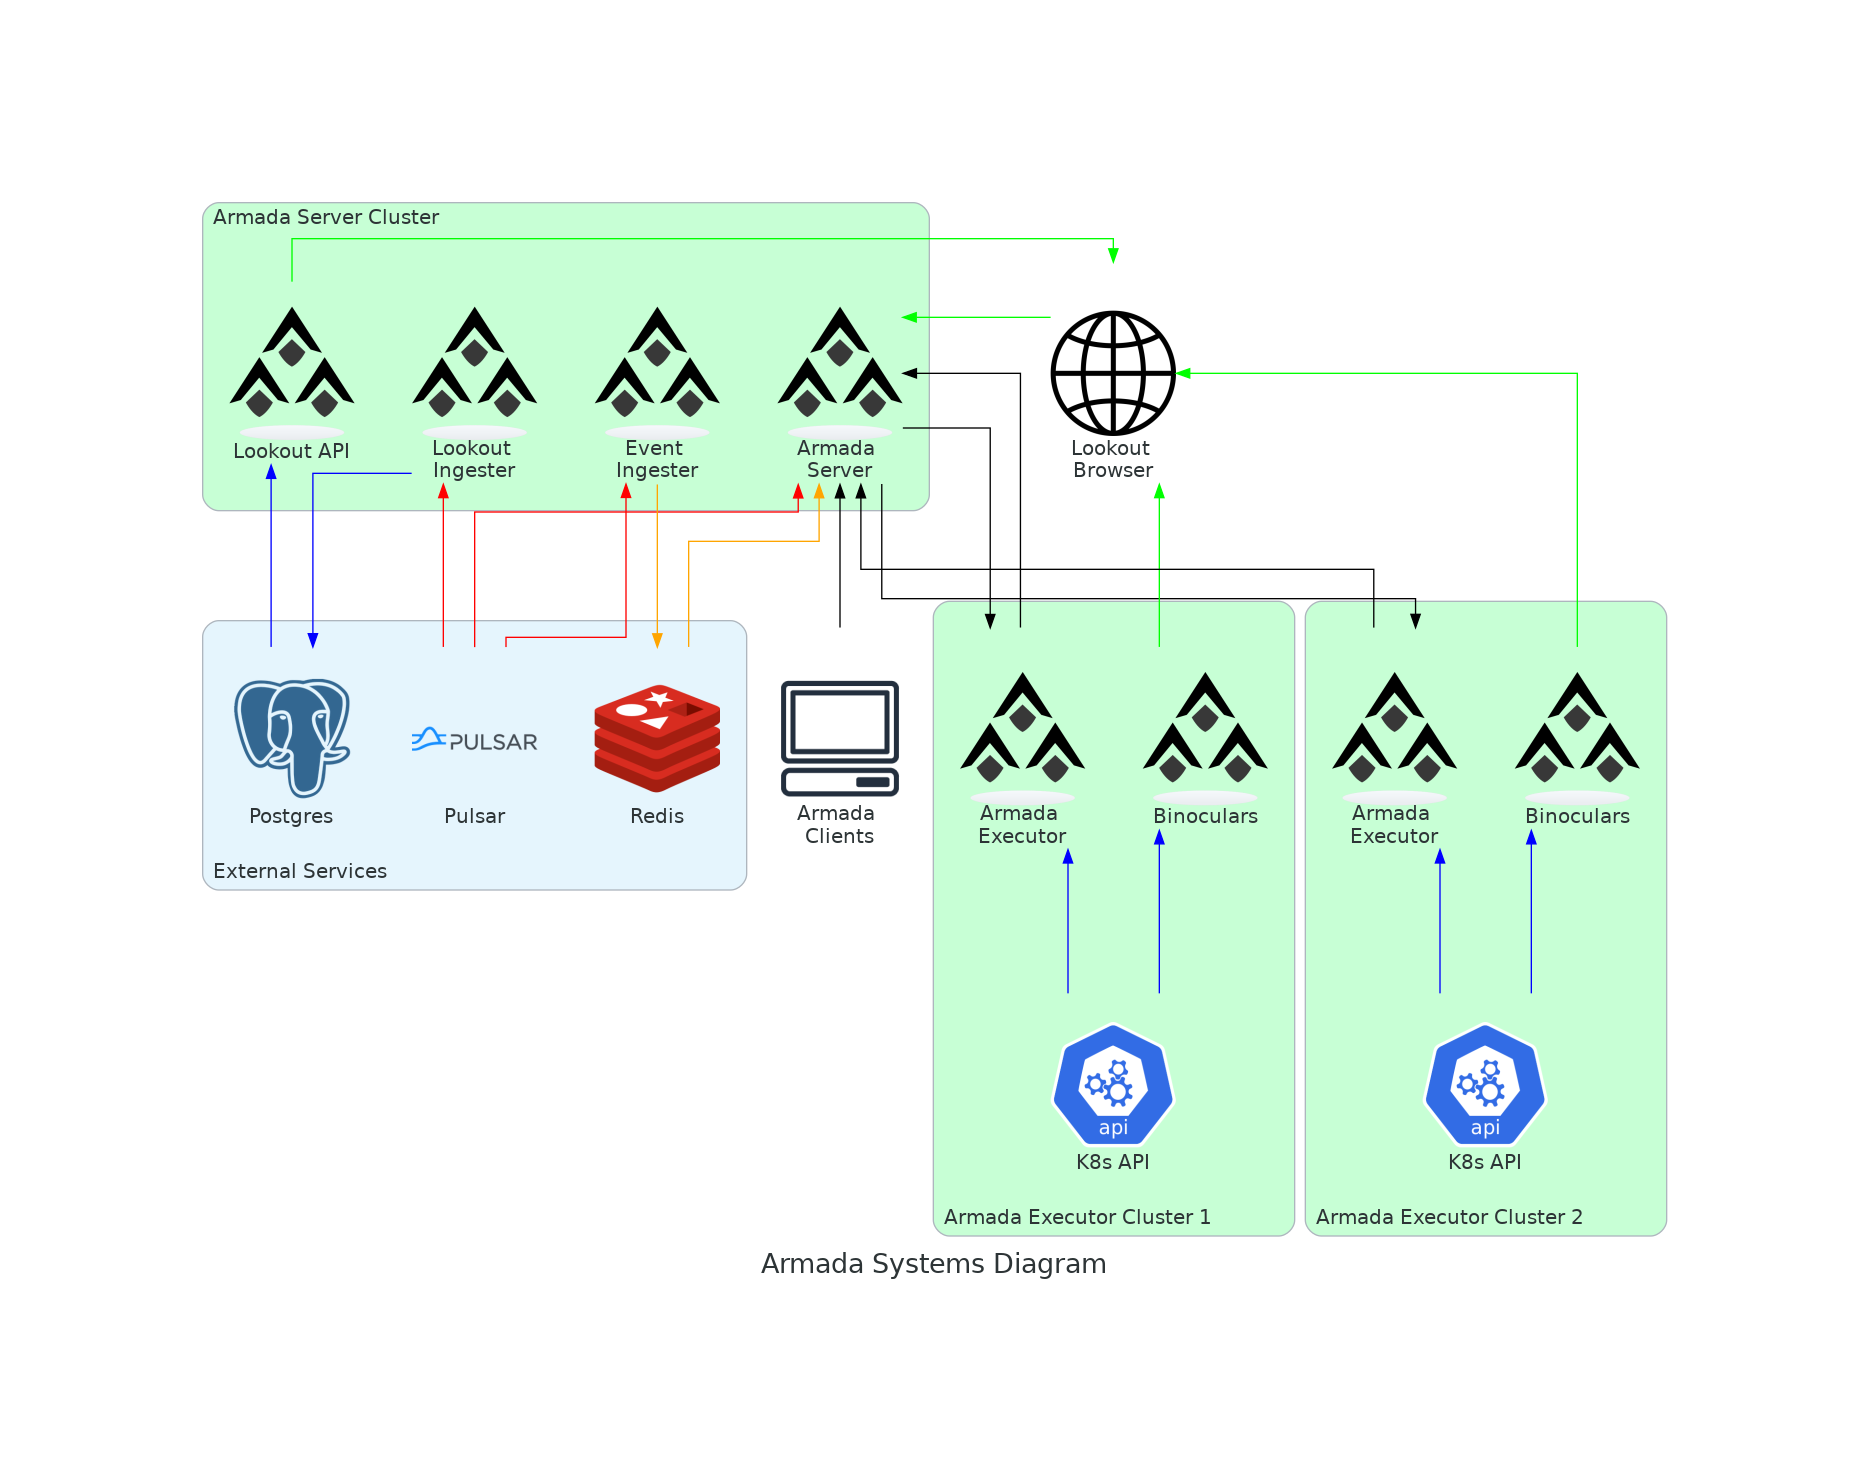
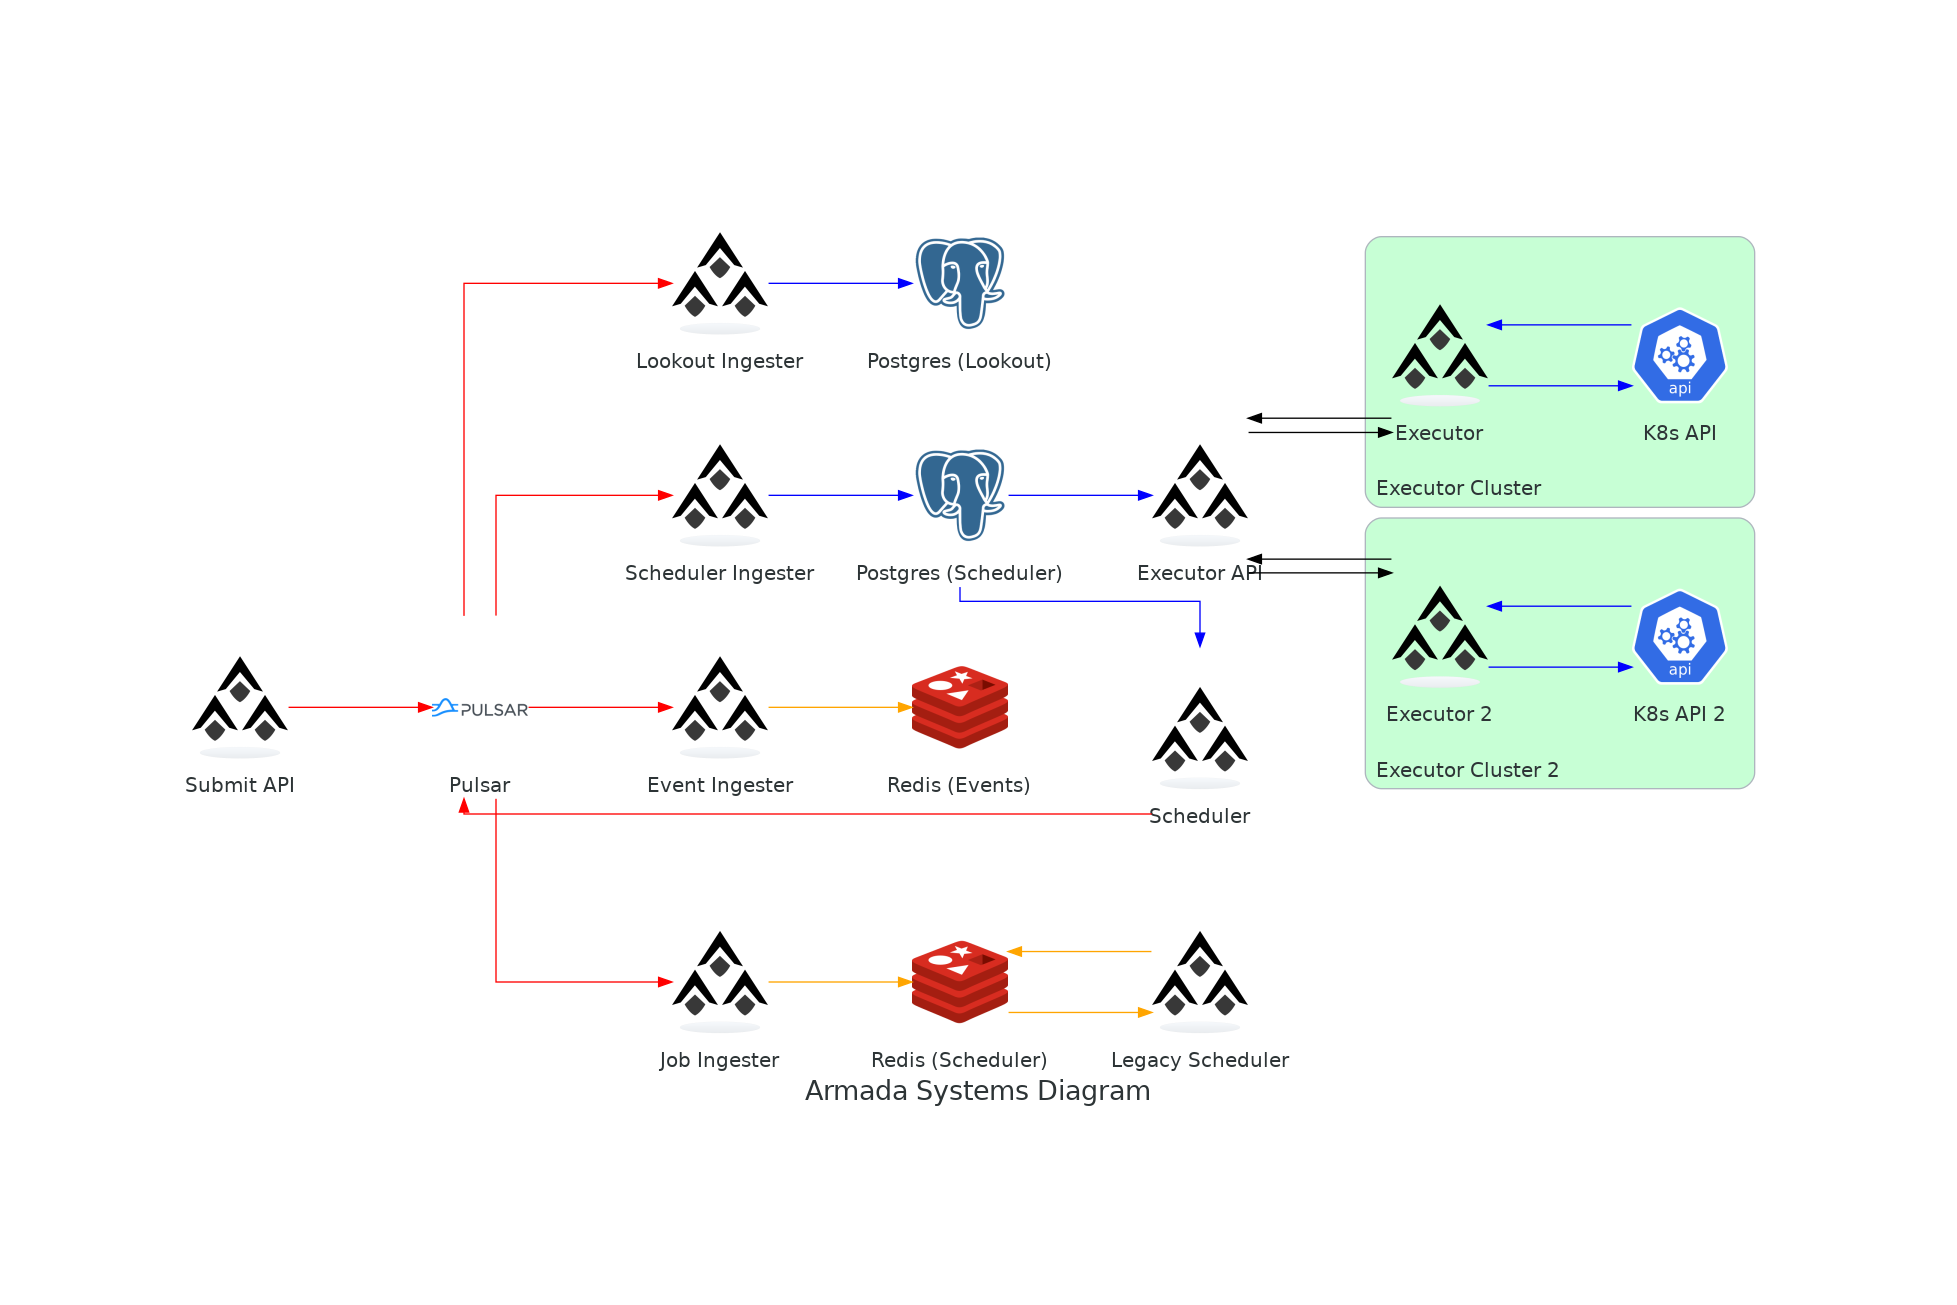
Added diagram changes

diff --git a/docs/design/diagrams/generate.py b/docs/design/diagrams/generate.py
@@ -3,13 +3,12 @@ from diagrams.onprem.database import PostgreSQL
 from diagrams.onprem.inmemory import Redis
 from diagrams.k8s.controlplane import API
 from diagrams.custom import Custom
-from diagrams.onprem.client import Client
 
 graph_attr = {
     "concentrate": "false",
     "splines": "ortho",
     "pad": "2",
-    "nodesep": "0.60",
+    "nodesep": "0.30",
     "ranksep": "1.5",
     "fontsize": "20",
 }
@@ -17,8 +16,8 @@ graph_attr = {
 node_attr = {
     # decrease image size
     "fixedsize": "true",
-    "width": "1.3",
-    "height": "1.3",
+    "width": "1",
+    "height": "1",
     "fontsize": "15",
 }
 
@@ -51,88 +50,87 @@ browser_logo = "./images/browser.png"
 with Diagram(
     name="Armada Systems Diagram",
     show=False,
-    direction="BT",
+    direction="LR",
     graph_attr=graph_attr,
     edge_attr=edge_attr,
     node_attr=node_attr,
     filename="armada-system",
 ):
 
-    with Cluster("External Services", graph_attr=cluster_attr_common):
-        pulsar = Custom("Pulsar", pulsar_logo)
-        postgres = PostgreSQL("Postgres")
-        redis = Redis("Redis")
+    pulsar = Custom("Pulsar", pulsar_logo)
 
-    armada_clients = Client("Armada \nClients")
+    # Databases
+    postgres_lookout = PostgreSQL("Postgres (Lookout)")
+    postgres_scheduler = PostgreSQL("Postgres (Scheduler)")
+    redis_events = Redis("Redis (Events)")
+    redis_scheduler = Redis("Redis (Scheduler)")
 
-    with Cluster("Armada Server Cluster", graph_attr=cluster_attr_server):
+    # Components
+    submit_api = Custom("Submit API", armada_logo)
 
-        lookout_api = Custom("Lookout API", armada_logo)
+    # Ingesters
+    lookout_ingester = Custom("Lookout Ingester", armada_logo)
+    scheduler_ingester = Custom("Scheduler Ingester", armada_logo)
+    event_ingerster = Custom("Event Ingester", armada_logo)
+    job_ingester = Custom("Job Ingester", armada_logo)
 
-        lookout_ingester = Custom("Lookout \nIngester", armada_logo)
-        event_ingester = Custom("Event \nIngester", armada_logo)
+    legacy_scheduler = Custom("Legacy Scheduler", armada_logo)
+    scheduler = Custom("Scheduler", armada_logo)
 
-        armada_server = Custom("Armada \nServer", armada_logo)
+    executor_api = Custom("Executor API", armada_logo)
 
-    with Cluster("Armada Executor Cluster 1", graph_attr=cluster_attr_exec):
+    with Cluster("Executor Cluster", graph_attr=cluster_attr_server):
 
-        armada_executor = Custom("Armada \nExecutor", armada_logo)
-        binoculars = Custom("Binoculars", armada_logo)
-
+        executor = Custom("Executor", armada_logo)
         k8s_api = API("K8s API")
 
-    with Cluster("Armada Executor Cluster 2", graph_attr=cluster_attr_exec):
+    with Cluster("Executor Cluster 2", graph_attr=cluster_attr_server):
 
-        armada_executor2 = Custom("Armada \nExecutor", armada_logo)
-        binoculars2 = Custom("Binoculars", armada_logo)
+        executor2 = Custom("Executor 2", armada_logo)
+        k8s_api2 = API("K8s API 2")
 
-        k8s_api2 = API("K8s API")
+    # Relationships
 
-    lookout_browser = Custom("Lookout \nBrowser", browser_logo)
+    # submit api talks to pulsar
+    submit_api >> Edge(color="red") >> pulsar
 
-    # Relations
-    # use edges to label the direction of the data flow
-
-    # clients all send requests to server both ways
-    armada_clients >> Edge(color="black") >> armada_server
-
-    # executor sends its data to the server
-    # the server then responds with jobs to execute
-    armada_server >> Edge(color="black") >> armada_executor
-    armada_executor >> Edge(color="black") >> armada_server
-
-    # event ingester recieves from pulsar and sends to redis
-    pulsar >> Edge(color="red") >> event_ingester
-    event_ingester >> Edge(color="orange") >> redis
-
-    # lookout ingester recieves from pulsar and sends to postgres
+    # pulsar talks to each of the ingesters
     pulsar >> Edge(color="red") >> lookout_ingester
-    lookout_ingester >> Edge(color="blue") >> postgres
+    pulsar >> Edge(color="red") >> scheduler_ingester
+    pulsar >> Edge(color="red") >> event_ingerster
+    pulsar >> Edge(color="red") >> job_ingester
 
-    # lookout broswer sends requests to the lookout api
-    lookout_api >> Edge(color="green") >> lookout_browser
+    # make postgres blue, redis orange
+    # lookout and scheduler ingesters talk to postgres
+    # the other ingesters talk to redis
+    lookout_ingester >> Edge(color="blue") >> postgres_lookout
+    scheduler_ingester >> Edge(color="blue") >> postgres_scheduler
 
-    # binoculars gets data from k8s, and is used by the browser
-    k8s_api >> Edge(color="blue") >> binoculars
-    binoculars >> Edge(color="green") >> lookout_browser
+    event_ingerster >> Edge(color="orange") >> redis_events
+    job_ingester >> Edge(color="orange") >> redis_scheduler
 
-    # executor gets data from k8s
-    k8s_api >> Edge(color="blue") >> armada_executor
+    # the legacy scheduler talks to the jobs redis in both directions
+    legacy_scheduler >> Edge(color="orange") >> redis_scheduler
+    redis_scheduler >> Edge(color="orange") >> legacy_scheduler
 
-    # lookout browser sends requests to armada server
-    lookout_browser >> Edge(color="green") >> armada_server
+    # the postgres scheduler talks to the scheduler and executor api
+    postgres_scheduler >> Edge(color="blue") >> scheduler
+    postgres_scheduler >> Edge(color="blue") >> executor_api
 
-    # armada server gets dats from pulsar and redis
-    pulsar >> Edge(color="red") >> armada_server
-    redis >> Edge(color="orange") >> armada_server
+    # the scheduler talks to pulsar
+    scheduler >> Edge(color="red") >> pulsar
 
-    # lookout api gets data from postgres
-    postgres >> Edge(color="blue") >> lookout_api
+    # the executor api talks to the executor on both clusters in both directions
+    # the executor talks to the k8s api
 
-    # recreate the re;ations for the second executor cluster
-    armada_server >> Edge(color="black") >> armada_executor2
-    armada_executor2 >> Edge(color="black") >> armada_server
+    executor_api >> Edge(color="black") >> executor
+    executor >> Edge(color="black") >> executor_api
 
-    k8s_api2 >> Edge(color="blue") >> armada_executor2
-    k8s_api2 >> Edge(color="blue") >> binoculars2
-    binoculars2 >> Edge(color="green") >> lookout_browser
+    executor_api >> Edge(color="black") >> executor2
+    executor2 >> Edge(color="black") >> executor_api
+
+    executor >> Edge(color="blue") >> k8s_api
+    k8s_api >> Edge(color="blue") >> executor
+
+    executor2 >> Edge(color="blue") >> k8s_api2
+    k8s_api2 >> Edge(color="blue") >> executor2
